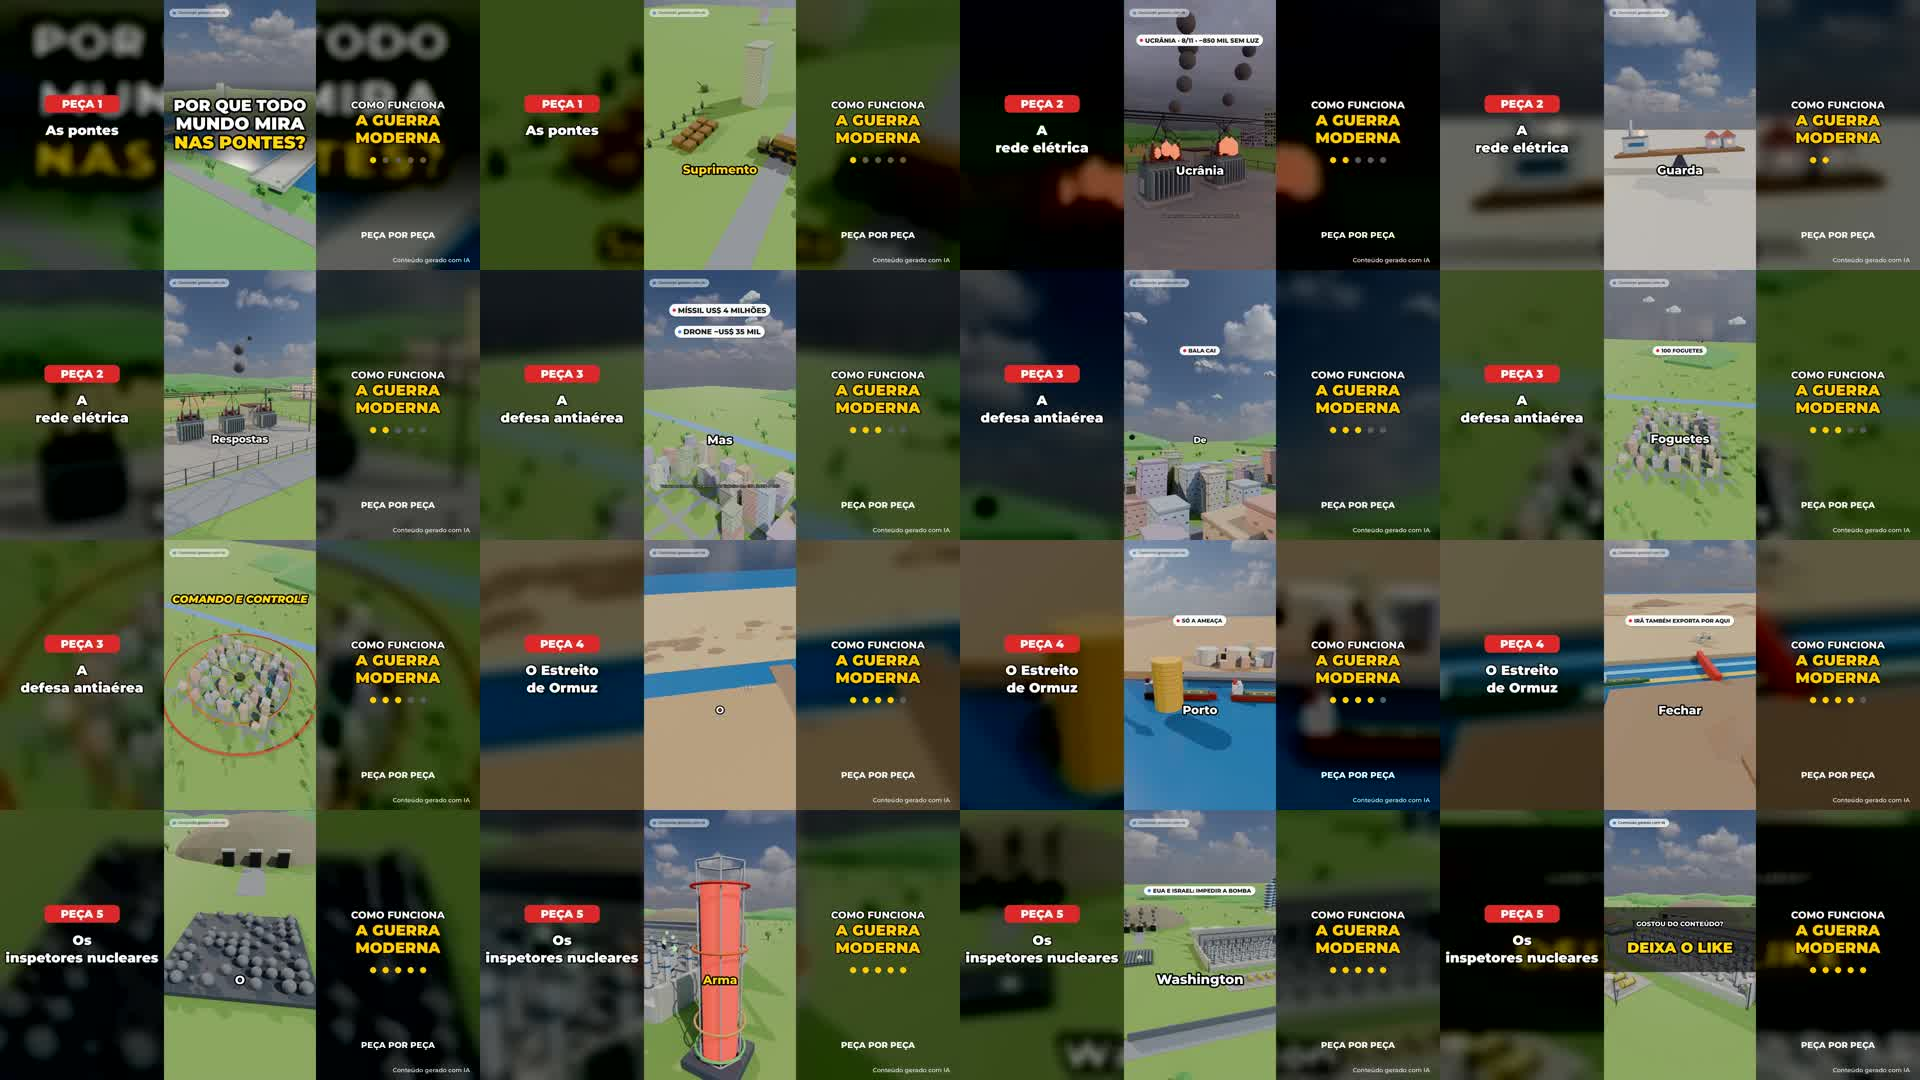
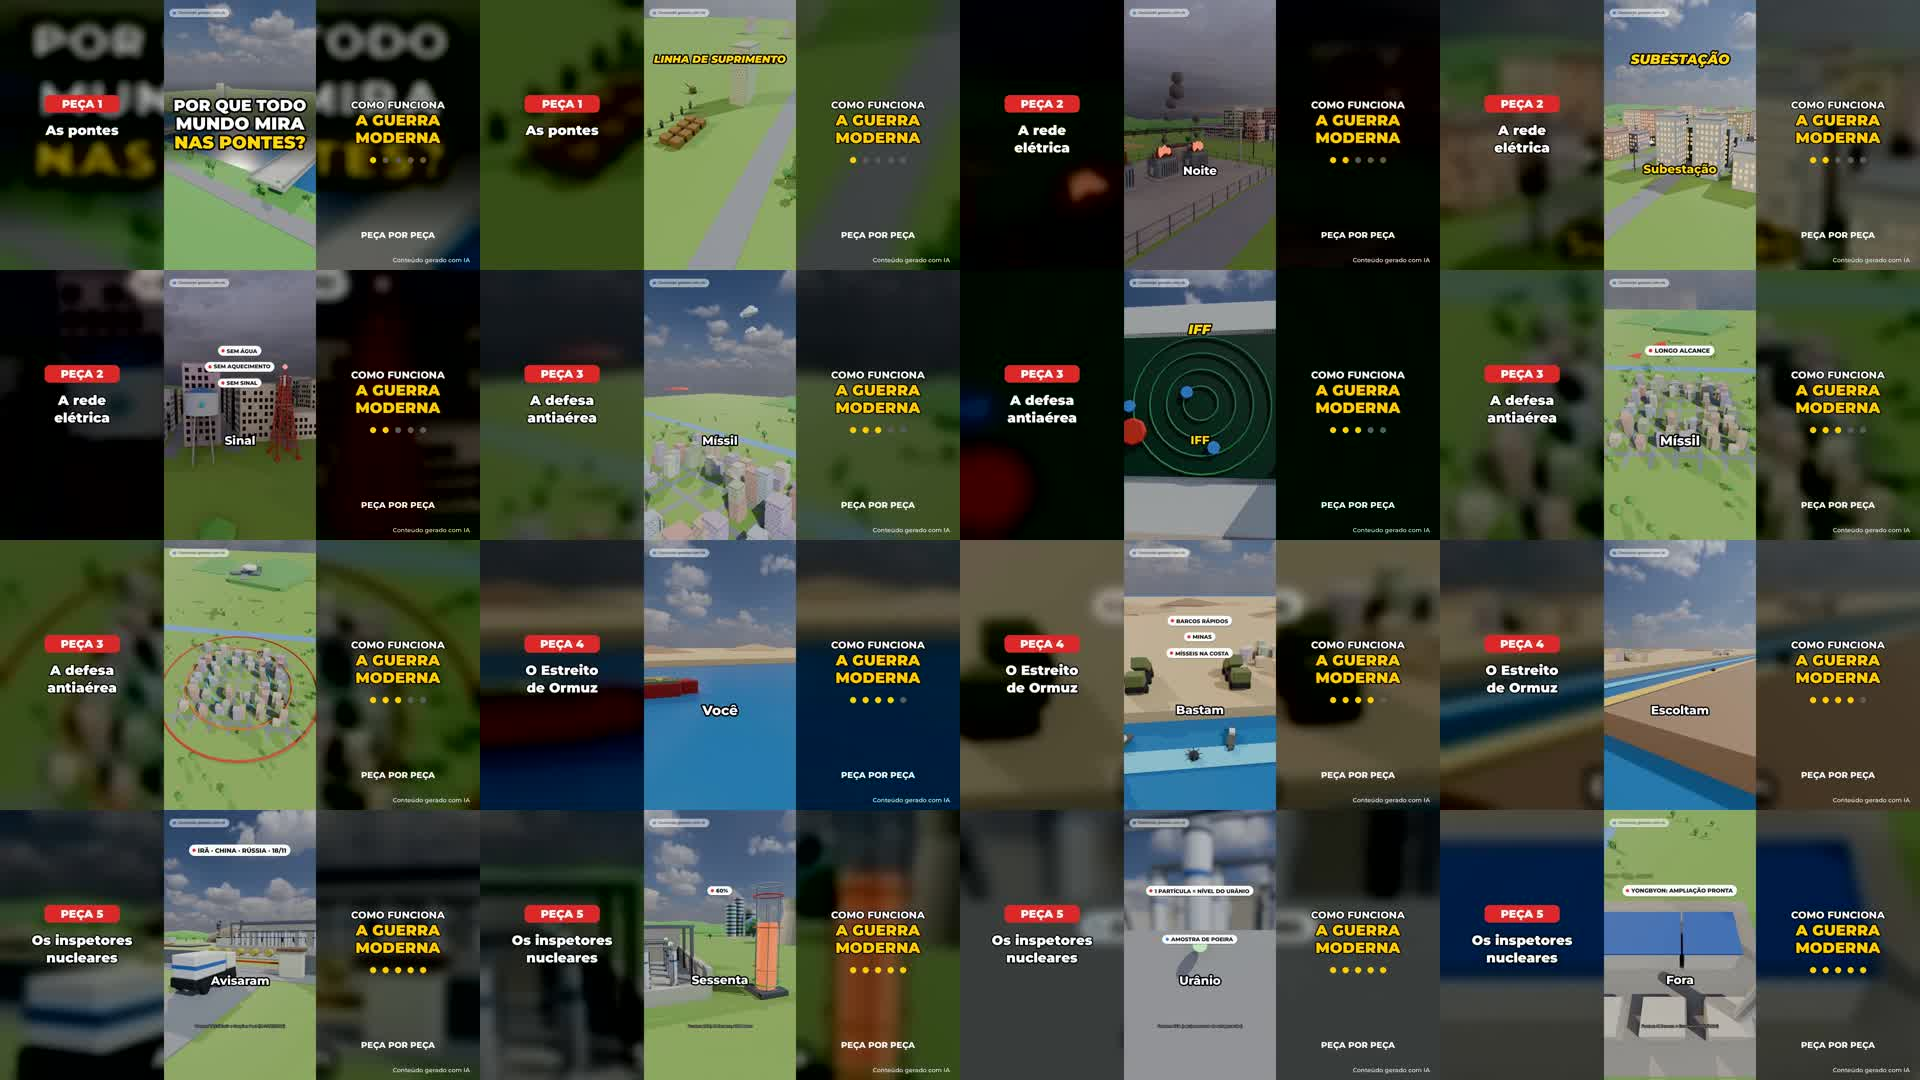
YouTube: longo da guerra moderna publicado (25/11 19:00) e longo do GTA 6 em montagem
Claude-Session: https://claude.ai/code/session_01DxZEAFHHWXjUXDaPS6fwgZ

diff --git a/produto/youtube/longos/gta6-games/cards.py b/produto/youtube/longos/gta6-games/cards.py
@@ -1,0 +1,57 @@
+import sys; sys.path.insert(0,'/home/user/Tutoriais/tiktok-geopolitica/motor')
+from PIL import Image, ImageDraw, ImageFont
+import os
+F='/home/user/Tutoriais/tiktok-geopolitica/assets/fonts/Montserrat[wght].ttf'
+def fo(t,w=b"Black"):
+    f=ImageFont.truetype(F,t)
+    try: f.set_variation_by_name(w)
+    except Exception: pass
+    return f
+AM=(255,204,0); VM=(220,40,40); BR=(255,255,255)
+import json
+caps=[(f"PEÇA {i+1}",t) for i,t in enumerate(json.load(open("caps.json")))]
+N=len(caps)
+W,H=1920,1080; vx0=(W-608)//2
+def lateral(n, rot, sub, name):
+    # transparent overlay with side texts for main segments
+    im=Image.new('RGBA',(W,H),(0,0,0,0)); d=ImageDraw.Draw(im)
+    cx=vx0//2
+    d.rounded_rectangle((cx-150,380,cx+150,450),20,fill=VM)
+    d.text((cx,415),rot,font=fo(44),fill=BR,anchor='mm')
+    y=520
+    for line in sub.split('\n'):
+        d.text((cx,y),line,font=fo(54),fill=BR,anchor='mm',stroke_width=4,stroke_fill=(0,0,0)); y+=70
+    rx=vx0+608+cx
+    d.text((rx,420),"COMO FUNCIONAM",font=fo(40,b"ExtraBold"),fill=BR,anchor='mm',stroke_width=3,stroke_fill=(0,0,0))
+    d.text((rx,480),"OS GAMES",font=fo(60),fill=AM,anchor='mm',stroke_width=4,stroke_fill=(0,0,0))
+    d.text((rx,550),"POR DENTRO",font=fo(60),fill=AM,anchor='mm',stroke_width=4,stroke_fill=(0,0,0))
+    # progress dots
+    for i in range(N):
+        x=rx-(N-1)*20+i*40; c=AM if i<=n else (90,90,90)
+        d.ellipse((x-12,640-12,x+12,640+12),fill=c)
+    d.text((rx,940),"PEÇA POR PEÇA",font=fo(34,b"ExtraBold"),fill=BR,anchor='mm')
+    d.text((W-40,1040),"Conteúdo gerado com IA",font=fo(24,b"SemiBold"),fill=(220,220,220),anchor='rm')
+    im.save(name)
+def wrap(s):
+    w=s.split()
+    if len(s)<14: return s
+    best=min(range(1,len(w)),key=lambda h:abs(len(" ".join(w[:h]))-len(" ".join(w[h:]))))
+    return " ".join(w[:best])+"\n"+" ".join(w[best:])
+for i,(r,s) in enumerate(caps): lateral(i,r,wrap(s),f'lat{i}.png')
+# full-screen chapter cards + title + end
+def card(name, top, big, small=None):
+    im=Image.new('RGB',(W,H),(14,16,22)); d=ImageDraw.Draw(im)
+    for k in range(0,W,6): d.line((k,0,k-300,H),fill=(18,20,28))
+    if top:
+        d.rounded_rectangle((W//2-170,330,W//2+170,410),22,fill=VM); d.text((W//2,370),top,font=fo(52),fill=BR,anchor='mm')
+    yy=520
+    for line in big.split('\n'):
+        t=120
+        while fo(t).getbbox(line,stroke_width=6)[2]>1800: t-=6
+        d.text((W//2,yy),line,font=fo(t),fill=AM if not top else BR,anchor='mm',stroke_width=6,stroke_fill=(0,0,0)); yy+=140
+    if small: d.text((W//2,yy+20),small,font=fo(46,b"ExtraBold"),fill=BR,anchor='mm')
+    d.text((W-40,1040),"Conteúdo gerado com IA",font=fo(24,b"SemiBold"),fill=(200,200,200),anchor='rm')
+    im.save(name)
+for i,(r,s) in enumerate(caps): card(f'card{i}.png',r,s.upper())
+card('titulo.png',None,"GTA 6 E OS GAMES\nPOR DENTRO","explicados peça por peça")
+card('fim.png',None,"SE INSCREVE\nPARA A PRÓXIMA PEÇA","PEÇA POR PEÇA")

diff --git a/produto/youtube/longos/guerra-moderna/cards.py b/produto/youtube/longos/guerra-moderna/cards.py
@@ -31,10 +31,10 @@ def lateral(n, rot, sub, name):
     d.text((W-40,1040),"Conteúdo gerado com IA",font=fo(24,b"SemiBold"),fill=(220,220,220),anchor='rm')
     im.save(name)
 def wrap(s):
-    w=s.split(); 
+    w=s.split()
     if len(s)<14: return s
-    h=len(w)//2 or 1
-    return " ".join(w[:h])+"\n"+" ".join(w[h:])
+    best=min(range(1,len(w)),key=lambda h:abs(len(" ".join(w[:h]))-len(" ".join(w[h:]))))
+    return " ".join(w[:best])+"\n"+" ".join(w[best:])
 for i,(r,s) in enumerate(caps): lateral(i,r,wrap(s),f'lat{i}.png')
 # full-screen chapter cards + title + end
 def card(name, top, big, small=None):

diff --git a/produto/youtube/longos/guerra-moderna/LEIA.md b/produto/youtube/longos/guerra-moderna/LEIA.md
@@ -1,20 +1,14 @@
 # Longo 1 — Como funciona a guerra moderna (prévia, 25/11)
 
-Status: **prévia enviada ao dono, aguardando aprovação do formato** (folha.jpg + trecho de 30 s). Não publicar antes disso.
+Status: **formato APROVADO pelo dono (25/11)** — publicado no YouTube em 25/11 às 19:00 (Metricool 442338295). Duração final 11:03, 84 MB (crf 24, para caber nos 100 MB do Picsart).
 
 - Formato: 1920x1080. O Short fica no centro (608x1080), sobre o próprio vídeo desfocado e escurecido. Painel esquerdo: "PEÇA N" e o tema. Painel direito: título da série e cinco pontos de progresso. Selo de IA no canto.
 - Duração: 11:08. Áudio a −14,3 LUFS.
 - Fontes: os final.mp4 baixados das URLs do Metricool (static.metricool.com/planner/202611/…), porque o git ignora os .mp4.
 - Voz do dono (ElevenLabs eleven_v4, 1 geração cada): abertura de 16,4 s e fecho de 10,7 s ("se inscreve para a próxima peça").
 - A rede elétrica foi cortada em 123,4 s para tirar o pedido de like repetido. O dos inspetores ainda tem o like no final (dá para cortar em ~150 s na versão final).
-- Ajustes para a versão final: quebrar "A rede elétrica" como "A rede / elétrica" no painel; cortar o like do vídeo nuclear.
+- Feito na versão final: quebra equilibrada no painel e corte do pedido de like (rede 123,8 s; nuclear 146,9 s, no tempo do VÍDEO, que é ~5 s maior que o do palavras.json por causa da capa).
 - Para montar: `python3 cards.py && bash montar.sh` (tudo no ffmpeg, cerca de 10 min em 4 CPUs).
 
-## Capítulos (para a descrição)
-00:00 As cinco peças da guerra moderna
-00:20 Peça 1 — Por que todo mundo mira nas pontes
-01:36 Peça 2 — A rede elétrica como alvo
-03:41 Peça 3 — A defesa antiaérea (míssil de 4 milhões x drone de 35 mil)
-06:14 Peça 4 — O Estreito de Ormuz
-08:21 Peça 5 — Como se vigia uma bomba atômica
-10:55 Próxima peça
+## Capítulos (publicados)
+00:00 As cinco peças · 00:20 Pontes · 01:36 Rede elétrica · 03:42 Defesa antiaérea · 06:15 Ormuz · 08:22 Inspetores nucleares · 10:50 Próxima peça

diff --git a/produto/youtube/historico.md b/produto/youtube/historico.md
@@ -14,5 +14,5 @@ Horários desta sessão no YouTube: **08:00 e 20:00** (fora dos horários de gam
 ## Vídeos longos
 | Tema | Status | Pasta |
 |---|---|---|
-| Como funciona a guerra moderna (11:08) | prévia enviada 25/11, aguardando o dono aprovar o formato | produto/youtube/longos/guerra-moderna |
-| GTA 6 explicado peça por peça | próximo, depois da aprovação | — |
+| Como funciona a guerra moderna (11:03) | formato aprovado 25/11; agendado 25/11 19:00 (Metricool 442338295) | produto/youtube/longos/guerra-moderna |
+| GTA 6 e os games por dentro, peça por peça | em montagem; previsto 28/11 19:00 (espera o vídeo do PS5) | produto/youtube/longos/gta6-games |

diff --git a/produto/youtube/longos/gta6-games/LEIA.md b/produto/youtube/longos/gta6-games/LEIA.md
@@ -1,0 +1,6 @@
+# Longo 2 — GTA 6 e os games por dentro, peça por peça (em montagem)
+
+Formato aprovado (o mesmo do longo de guerra). Voz do dono já gerada: abertura 16,2 s e fecho 10,6 s.
+Peças (cortes no tempo do vídeo, sem o pedido de like): pedestres 58,8 · 30 FPS 70,9 · Twitch 71,9 · live 57,9 · servidor CS2 59,8 · anti-cheat 65,9 (cerca de 7 min).
+Falta: entrar o vídeo do PS5 (IA encarecendo o console) quando estiver no Metricool, para passar de 8 min. "GTA 6 se pagou em um dia" fica de fora (número contestado).
+Publicação prevista: 28/11 às 19:00. Para montar: caps.json + segs.txt, depois `python3 cards.py && bash montar.sh`.
